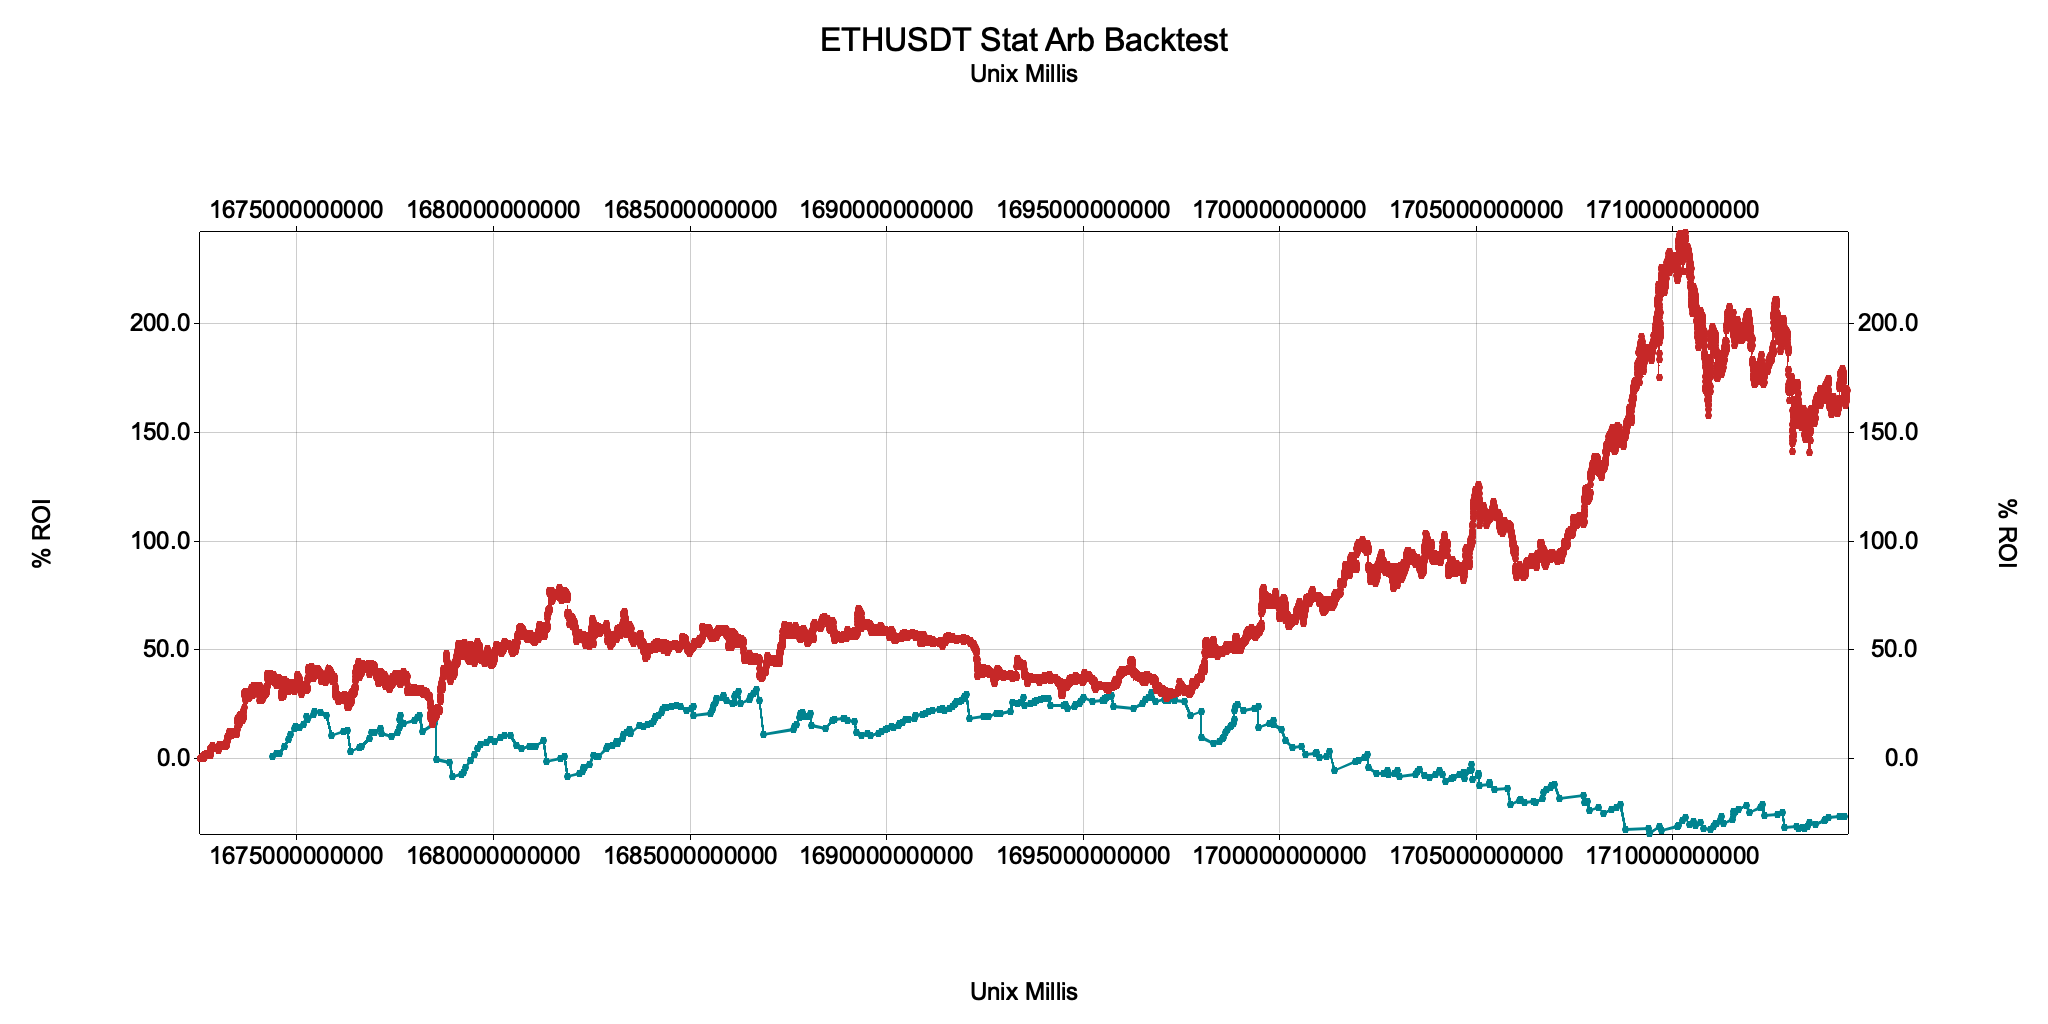
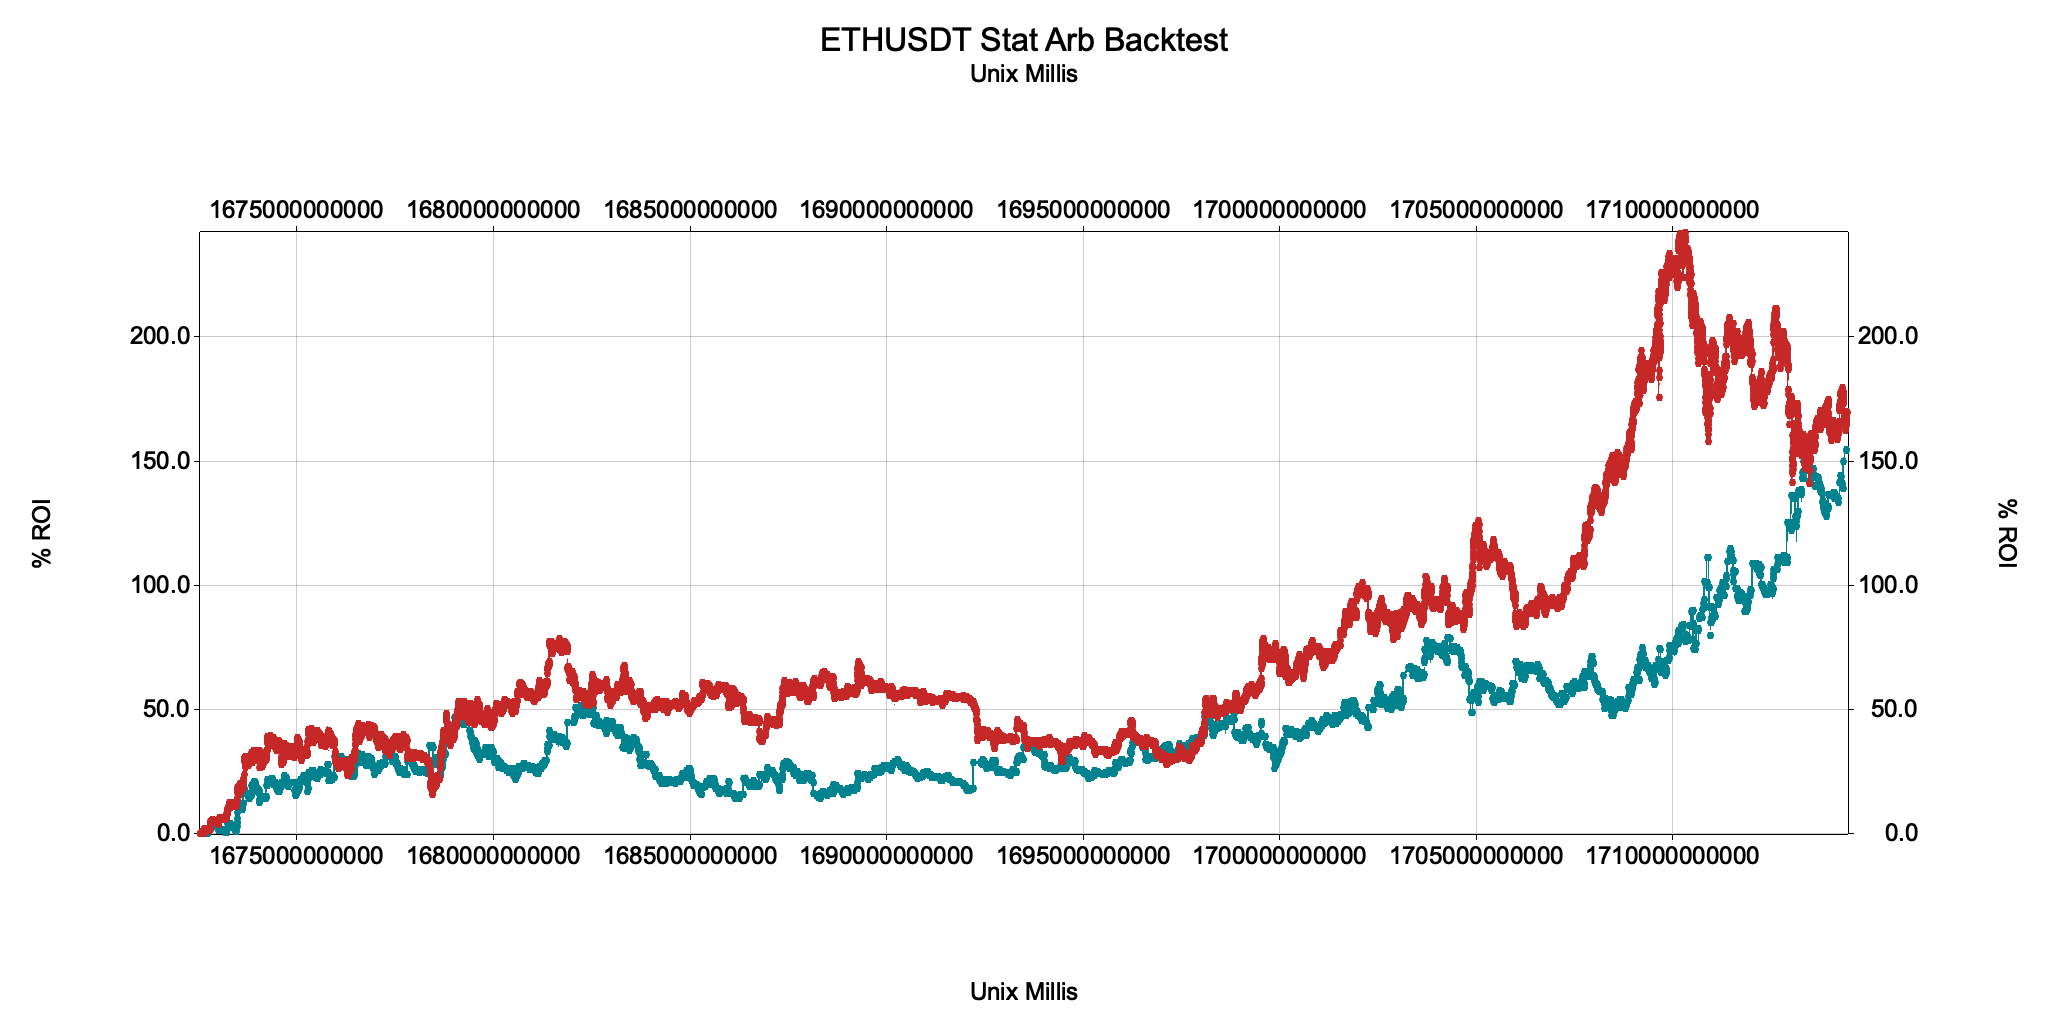
HalfLife looking good, StatArb one ticker printing

diff --git a/playbook/src/strategies/stat_arb.rs b/playbook/src/strategies/stat_arb.rs
@@ -73,24 +73,18 @@ impl StatArb {
     assert_eq!(spread.len(), x.len());
     let lag_spread = spread[..spread.len()-1].to_vec();
 
-    // let half_life = half_life(&spread).unwrap();
-    // let window = half_life.abs().round() as usize;
-    let window = self.window;
-
     let z_0 = Data {
       x: x_0.x,
-      y: Self::zscore(&spread, window)?
+      y: Self::zscore(&spread, self.window)?
     };
     let z_1 = Data {
       x: x_0.x,
-      y: Self::zscore(&lag_spread, window)?
+      y: Self::zscore(&lag_spread, self.window)?
     };
 
-    // THIS IS GOOD FOR ETHUSDT
-    // let long = z_0.y < -self.zscore_threshold;
-    // let short = z_0.y > self.zscore_threshold;
-
+    // spread down means y down or x up
     let long = z_0.y < -self.zscore_threshold;
+    // spread up means y up or x down
     let short = z_0.y > 0.0 && z_1.y < 0.0;
 
     match (long, short) {
@@ -198,7 +192,7 @@ impl Strategy<Data<f64>> for StatArb {
 // ==========================================================================================
 
 #[tokio::test]
-async fn btc_eth_backtest() -> anyhow::Result<()> {
+async fn btc_eth_stat_arb() -> anyhow::Result<()> {
   use super::*;
   use std::path::PathBuf;
   use time_series::{Time, Day, Month, Plot};
@@ -210,20 +204,20 @@ async fn btc_eth_backtest() -> anyhow::Result<()> {
   // let start_time = Time::new(2024, &Month::from_num(4), &Day::from_num(1), None, None, None);
   let end_time = Time::new(2024, &Month::from_num(4), &Day::from_num(30), None, None, None);
 
-  let capacity = 1_000;
-  let window = 20;
+  let capacity = 100;
+  let window = 10;
   let threshold = 2.0;
+  let stop_loss = 0.1;
   
   let x_ticker = "BTCUSDT".to_string();
   let y_ticker = "ETHUSDT".to_string();
   let strat = StatArb::new(capacity, window,  threshold, x_ticker.clone(), y_ticker.clone());
-  let stop_loss = 100.0;
 
   let mut backtest = Backtest::new(strat.clone(), 1000.0, 0.0, true, 1);
   let btc_csv = PathBuf::from("btcusdt_30m.csv");
-  let mut btc_candles = backtest.csv_series(&btc_csv, Some(start_time), Some(end_time), x_ticker.clone())?.candles;
+  let mut btc_candles = Backtest::<Data<f64>, StatArb>::csv_series(&btc_csv, Some(start_time), Some(end_time), x_ticker.clone())?.candles;
   let eth_csv = PathBuf::from("ethusdt_30m.csv");
-  let mut eth_candles = backtest.csv_series(&eth_csv, Some(start_time), Some(end_time), y_ticker.clone())?.candles;
+  let mut eth_candles = Backtest::<Data<f64>, StatArb>::csv_series(&eth_csv, Some(start_time), Some(end_time), y_ticker.clone())?.candles;
 
   // retain the overlapping dates between the two time series
   // Step 1: Create sets of timestamps from both vectors
@@ -312,9 +306,9 @@ async fn btc_eth_spread_zscore() -> anyhow::Result<()> {
 
   let mut backtest = Backtest::new(strat.clone(), 1000.0, 0.0, true, 1);
   let btc_csv = PathBuf::from("btcusdt_30m.csv");
-  let mut btc_candles = backtest.csv_series(&btc_csv, Some(start_time), Some(end_time), x_ticker.clone())?.candles;
+  let mut btc_candles = Backtest::<Data<f64>, StatArb>::csv_series(&btc_csv, Some(start_time), Some(end_time), x_ticker.clone())?.candles;
   let eth_csv = PathBuf::from("ethusdt_30m.csv");
-  let mut eth_candles = backtest.csv_series(&eth_csv, Some(start_time), Some(end_time), y_ticker.clone())?.candles;
+  let mut eth_candles = Backtest::<Data<f64>, StatArb>::csv_series(&eth_csv, Some(start_time), Some(end_time), y_ticker.clone())?.candles;
 
   // retain the overlapping dates between the two time series
   // Step 1: Create sets of timestamps from both vectors
@@ -404,9 +398,9 @@ async fn btc_eth_cointegration() -> anyhow::Result<()> {
 
   let mut backtest = Backtest::new(strat.clone(), 1000.0, 0.0, false, 1);
   let btc_csv = PathBuf::from("btcusdt_30m.csv");
-  let mut btc_candles = backtest.csv_series(&btc_csv, Some(start_time), Some(end_time), x_ticker.clone())?.candles;
+  let mut btc_candles = Backtest::<Data<f64>, StatArb>::csv_series(&btc_csv, Some(start_time), Some(end_time), x_ticker.clone())?.candles;
   let eth_csv = PathBuf::from("ethusdt_30m.csv");
-  let mut eth_candles = backtest.csv_series(&eth_csv, Some(start_time), Some(end_time), y_ticker.clone())?.candles;
+  let mut eth_candles = Backtest::<Data<f64>, StatArb>::csv_series(&eth_csv, Some(start_time), Some(end_time), y_ticker.clone())?.candles;
 
   // retain the overlapping dates between the two time series
   // Step 1: Create sets of timestamps from both vectors

diff --git a/playbook/src/strategies/half_life.rs b/playbook/src/strategies/half_life.rs
@@ -143,7 +143,7 @@ impl Strategy<Data<f64>> for HalfLife {
 async fn btc_half_life() -> anyhow::Result<()> {
   use super::*;
   use std::path::PathBuf;
-  use time_series::{Time, Day, Month, Plot, trunc, Dataset};
+  use time_series::{Time, Day, Month, Plot, trunc};
   use crate::Backtest;
   use tradestats::metrics::*;
   dotenv::dotenv().ok();
@@ -156,39 +156,36 @@ async fn btc_half_life() -> anyhow::Result<()> {
   let threshold = 2.0;
   let ticker = "BTCUSDT".to_string();
   let stop_loss = 0.1;
-
-  let mut strat = HalfLife::new(capacity, 10, threshold, ticker.clone());
-
-  let mut backtest = Backtest::new(strat.clone(), 1_000.0, 0.02, true, 1);
+  
   let btc_csv = PathBuf::from("btcusdt_30m.csv");
-  let mut btc_candles = backtest.csv_series(&btc_csv, Some(start_time), Some(end_time), ticker.clone())?.candles;
+  let mut btc_candles = Backtest::<Data<f64>, HalfLife>::csv_series(
+    &btc_csv, 
+    Some(start_time), 
+    Some(end_time), 
+    ticker.clone()
+  )?.candles;
   btc_candles.sort_by_key(|c| c.date.to_unix_ms());
-  backtest.candles.insert(ticker.clone(), btc_candles);
-  println!("Backtest BTC candles: {}", backtest.candles.get(&ticker).unwrap().len());
 
   // convert to natural log to linearize time series
-  let series: Vec<f64> = backtest.candles.get(&ticker).unwrap().clone().into_iter().map(|d| d.close.ln()).collect();
+  let series: Vec<f64> = btc_candles.clone().into_iter().map(|d| d.close.ln()).collect();
 
-  // todo: half life of in-sample data. this is introducing out-of-sample data into the backtest
+  // half life of in-sample data (index 0 to 1000)
   let in_sample: Vec<f64> = series.clone().into_iter().take(1000).collect();
   let half_life = half_life(&in_sample).unwrap();
   println!("{} half-life: {} bars", ticker, trunc!(half_life, 1));
-  let window = half_life.abs().round() as usize;
-  strat.window = window;
-  let series = series[1000..].to_vec();
-
-  let spread: Vec<f64> = series.windows(2).map(|x| x[1] - x[0]).collect();
-
-  let zscore: Vec<f64> = rolling_zscore(&spread, window).unwrap();
-  let zscore = Dataset::new(zscore.iter().enumerate().map(|(i, x)| Data { x: i as i64, y: *x }).collect());
-
-  Plot::plot(
-    vec![zscore.data().clone()],
-    "btc_half_life_zscore.png",
-    "BTC Half Life Z Score",
-    "Z Score",
-    "Time"
-  )?;
+  // use this half-life as the strategy window
+  // let window = half_life.abs().round() as usize;
+  let window = 10;
+  
+  let strat = HalfLife::new(capacity, window, threshold, ticker.clone());
+  let mut backtest = Backtest::new(strat.clone(), 1_000.0, 0.02, true, 1);
+  // backtest.candles.insert(ticker.clone(), btc_candles.clone());
+  // println!("Backtest BTC candles: {}", backtest.candles.get(&ticker).unwrap().len());
+  
+  // out-of-sample data (index 1000 to end)
+  let btc_candles = btc_candles[1000..].to_vec();
+  backtest.candles.insert(ticker.clone(), btc_candles);
+  println!("Backtest BTC candles: {}", backtest.candles.get(&ticker).unwrap().len());
 
   backtest.backtest(stop_loss)?;
   if let Some(trades) = backtest.trades.get(&ticker) {
@@ -206,13 +203,6 @@ async fn btc_half_life() -> anyhow::Result<()> {
         "% ROI",
         "Unix Millis"
       )?;
-      // Plot::plot(
-      //   vec![summary.cum_quote.data().clone()],
-      //   "btc_half_life_backtest.png",
-      //   "BTCUSDT Half Life Backtest",
-      //   "$ ROI",
-      //   "Unix Millis"
-      // )?;
     }
   }
 

diff --git a/playbook/src/backtest.rs b/playbook/src/backtest.rs
@@ -64,7 +64,6 @@ impl<T, S: Strategy<T>> Backtest<T, S> {
   /// Expects date of candle to be in UNIX timestamp format.
   /// CSV format: date,open,high,low,close,volume
   pub fn csv_series(
-    &mut self,
     csv_path: &PathBuf,
     start_time: Option<Time>,
     end_time: Option<Time>,
@@ -350,8 +349,9 @@ impl<T, S: Strategy<T>> Backtest<T, S> {
   /// If compounded, assumes trading profits are 100% reinvested.
   /// If not compounded, assumed trading with initial capital (e.g. $1000 every trade) and not reinvesting profits.
   pub fn summary(&mut self, ticker: String) -> anyhow::Result<Summary> {
-    let mut capital = self.capital * self.leverage as f64;
-    let initial_capital = capital;
+    let mut cum_capital = self.capital * self.leverage as f64;
+    let static_capital = self.capital * self.leverage as f64;
+    let initial_capital = self.capital;
 
     let mut quote = 0.0;
     let mut cum_pct = vec![];
@@ -361,16 +361,16 @@ impl<T, S: Strategy<T>> Backtest<T, S> {
     let mut updated_trades = vec![];
     let trades = self.trades.get(&ticker).ok_or(anyhow::anyhow!("No trades for ticker"))?;
     for trades in trades.windows(2) {
-      let exit = &trades[1];
       let entry = &trades[0];
+      let exit = &trades[1];
       let factor = match entry.side {
         Order::Long => 1.0,
         Order::Short => -1.0,
       };
       let pct_pnl = ((exit.price - entry.price) / entry.price * factor) * 100.0;
       let position_size = match self.compound {
-        true => capital,
-        false => initial_capital
+        true => cum_capital,
+        false => static_capital
       };
       
       let quantity = position_size / entry.price;
@@ -385,30 +385,30 @@ impl<T, S: Strategy<T>> Backtest<T, S> {
       
       // fee on trade entry capital
       let entry_fee = position_size.abs() * (self.fee / 100.0);
-      capital -= entry_fee;
+      cum_capital -= entry_fee;
       
       // fee on profit made
       let mut quote_pnl = pct_pnl / 100.0 * position_size;
       let profit_fee = quote_pnl.abs() * (self.fee / 100.0);
       quote_pnl -= profit_fee;
 
-      capital += quote_pnl;
+      cum_capital += quote_pnl;
       quote += quote_pnl;
 
       cum_quote.push(Data {
         x: entry.date.to_unix_ms(),
-        y: trunc!(quote, 4)
+        y: trunc!(quote, 2)
       });
       cum_pct.push(Data {
         x: entry.date.to_unix_ms(),
-        y: trunc!(capital / initial_capital * 100.0 - 100.0, 4)
+        y: trunc!(cum_capital / initial_capital * 100.0 - 100.0, 2)
       });
       pct_per_trade.push(Data {
         x: entry.date.to_unix_ms(),
-        y: trunc!(pct_pnl, 4)
+        y: trunc!(pct_pnl, 2)
       });
 
-      let quantity = capital / exit.price;
+      let quantity = position_size / exit.price;
       let updated_exit = Trade {
         ticker: ticker.clone(),
         date: exit.date,

diff --git a/playbook/src/strategies/dreamrunner.rs b/playbook/src/strategies/dreamrunner.rs
@@ -167,7 +167,7 @@ async fn sol_backtest() -> anyhow::Result<()> {
   use time_series::{Time, Day, Month, Plot};
   use crate::Backtest;
   dotenv::dotenv().ok();
-  
+
   let strategy = Dreamrunner::solusdt_optimized();
   let stop_loss = 100.0;
   let capital = 1_000.0;
@@ -185,7 +185,7 @@ async fn sol_backtest() -> anyhow::Result<()> {
   let out_file = "solusdt_30m.csv";
   let csv = PathBuf::from(out_file);
   let mut backtest = Backtest::new(strategy.clone(), capital, fee, compound, leverage);
-  let csv_series = backtest.csv_series(&csv, Some(start_time), Some(end_time), ticker.clone())?;
+  let csv_series = Backtest::<Candle, Dreamrunner>::csv_series(&csv, Some(start_time), Some(end_time), ticker.clone())?;
   backtest.candles.insert(ticker.clone(), csv_series.candles);
 
   println!("==== Dreamrunner Backtest ====");
@@ -230,7 +230,7 @@ async fn eth_backtest() -> anyhow::Result<()> {
   let out_file = "ethusdt_30m.csv";
   let csv = PathBuf::from(out_file);
   let mut backtest = Backtest::new(strategy, capital, fee, compound, leverage);
-  let csv_series = backtest.csv_series(&csv, Some(start_time), Some(end_time), ticker.clone())?;
+  let csv_series = Backtest::<Candle, Dreamrunner>::csv_series(&csv, Some(start_time), Some(end_time), ticker.clone())?;
   backtest.candles.insert(ticker.clone(), csv_series.candles);
 
   backtest.backtest(stop_loss)?;
@@ -275,7 +275,7 @@ async fn btc_backtest() -> anyhow::Result<()> {
   let out_file = "btcusdt_30m.csv";
   let csv = PathBuf::from(out_file);
   let mut backtest = Backtest::new(strategy, capital, fee, compound, leverage);
-  let csv_series = backtest.csv_series(&csv, Some(start_time), Some(end_time), ticker.clone())?;
+  let csv_series = Backtest::<Candle, Dreamrunner>::csv_series(&csv, Some(start_time), Some(end_time), ticker.clone())?;
   backtest.candles.insert(ticker.clone(), csv_series.candles);
 
   backtest.backtest(stop_loss)?;
@@ -339,7 +339,7 @@ async fn optimize() -> anyhow::Result<()> {
 
   let csv = PathBuf::from(time_series);
   let mut backtest = Backtest::new(strategy.clone(), capital, fee, compound, leverage);
-  let csv_series = backtest.csv_series(&csv, Some(start_time), Some(end_time), ticker.clone())?;
+  let csv_series = Backtest::<Candle, Dreamrunner>::csv_series(&csv, Some(start_time), Some(end_time), ticker.clone())?;
 
   #[derive(Debug, Clone)]
   struct BacktestResult {
